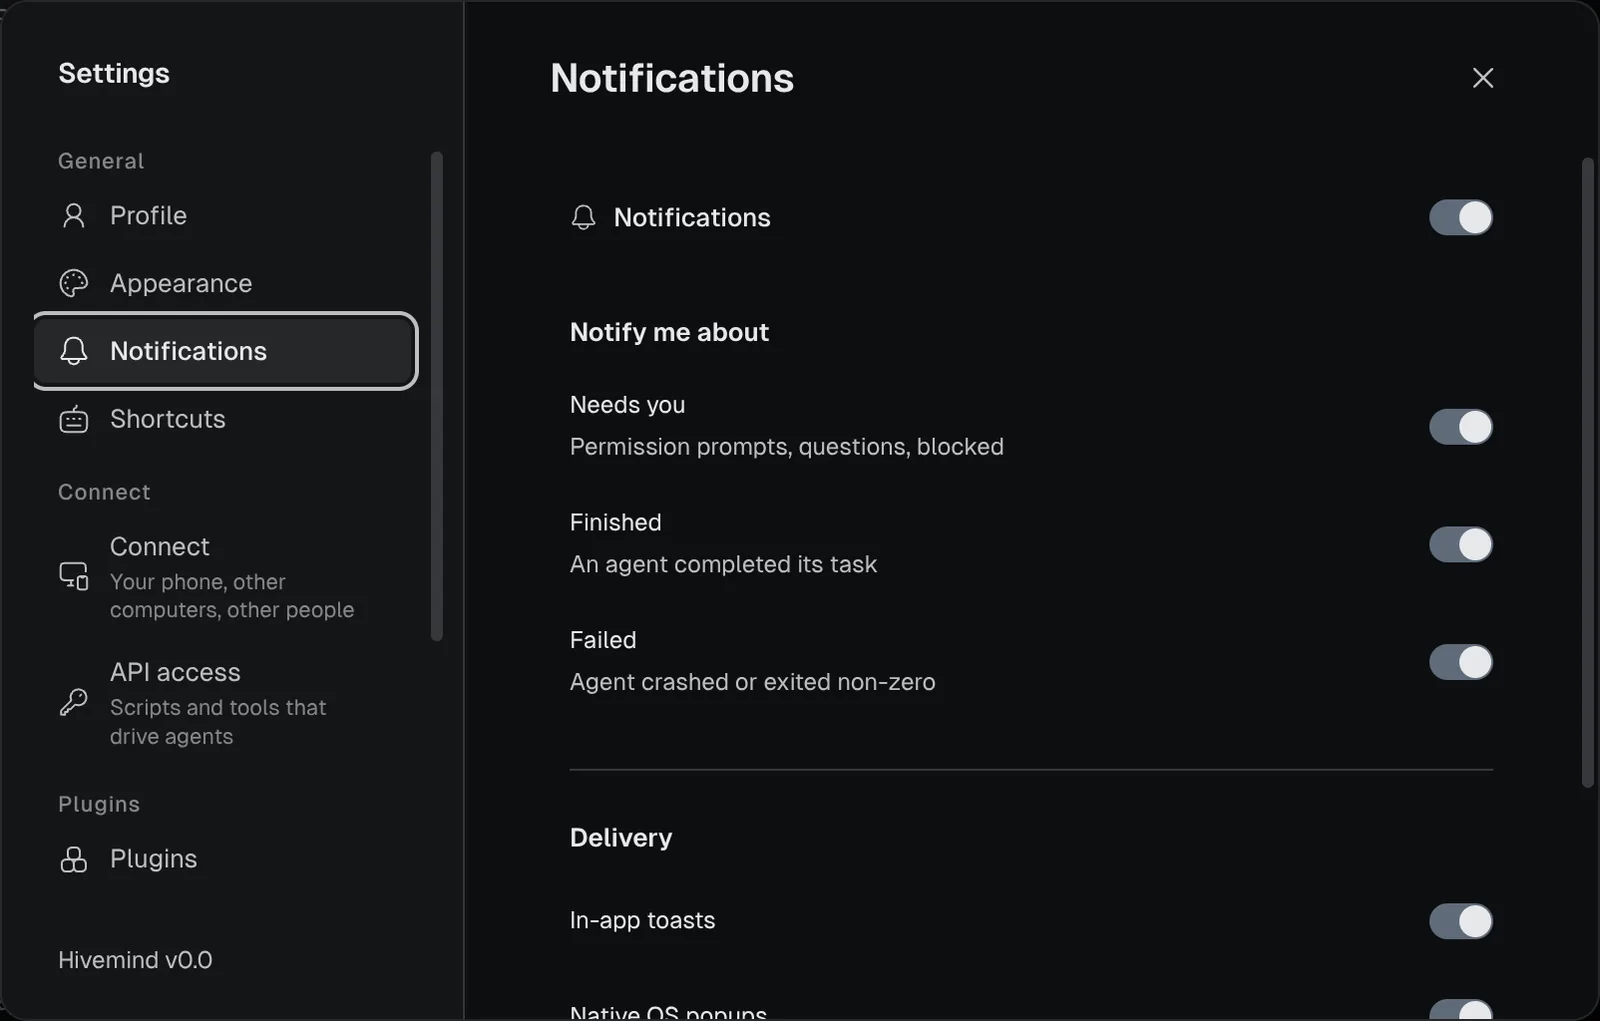
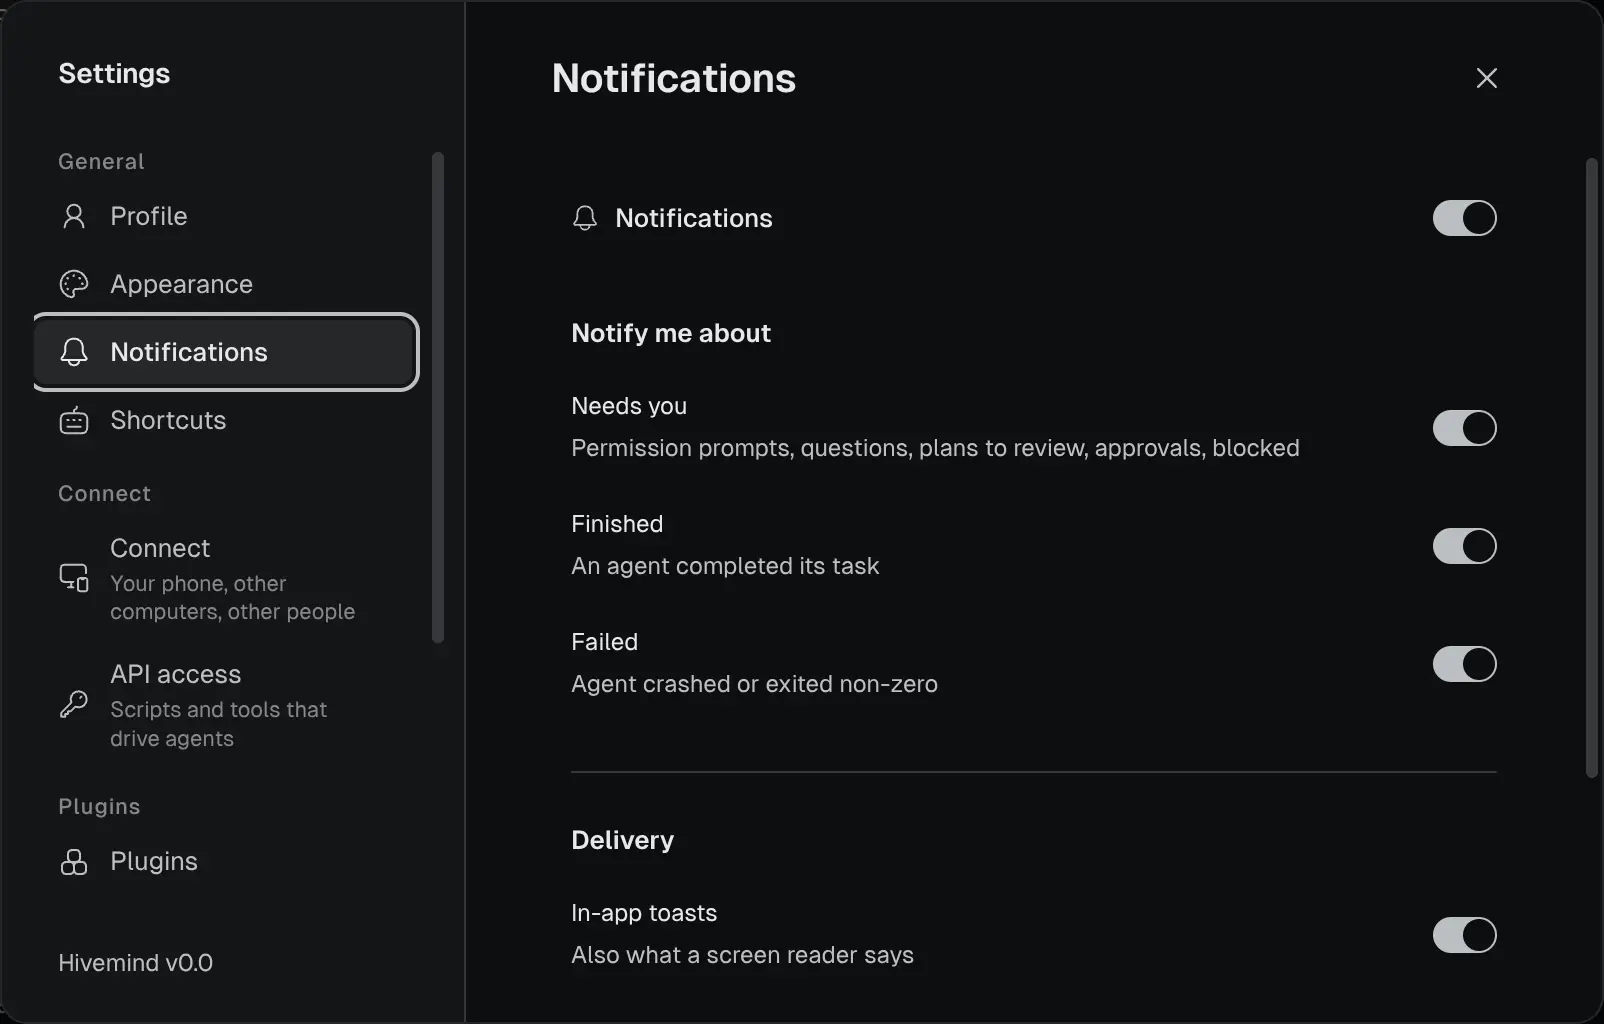
Status review 2: plans and approvals notify, failed spawns reach views, keys from the keymap
One definition of "needs you": noticeOf (and toastKindOf) ask statusLook(status) === "needs",
the reading the marks, Layers' bell and the frame corner use. A plan to review and a supervised
worker's approval now raise a toast, an OS notification and the screen reader's line, as their
amber mark already said; before, only blocked, permission and question did. Settings ->
Notifications names them under Needs you; the glossary's needs-you row and its tooltip on
know-who-is-waiting name the supervised worker's request (a plan was already there).

Failed spawns reach custom views: view-events decides a failed exit with exitFailed, so a
terminal that never ran (failed: true, no code) is closed to a view as tileClosed failed: true,
not as a clean close.

In-app toasts says "Also what a screen reader says" under it (the announcer gates on
shouldNotify(..., "inApp")); the note is the switch's aria-describedby, so a screen reader hears
it on the switch.

Keys from the keymap:
- The editor's and the diff's full-screen tooltips said "Esc to exit", which is false in the
  editor (Esc is CodeMirror's while you type). Both now read "Fullscreen (<fit-to-screen key>
  to leave)", from actionKey, as the full-screen view's leave button does.
- handleFontKey (editor, diff and plan tiles) matches through actionsFor(e, "terminal") instead
  of its own key list, so the keymap is the one owner of the font keys. Changes: on a Mac only
[…]

diff --git a/apps/desktop/src/renderer/src/useAgentAwareness.ts b/apps/desktop/src/renderer/src/useAgentAwareness.ts
@@ -7,11 +7,12 @@ import { isBackgroundTile } from "./worker-tiles";
 import { getNotificationSettings } from "./notification-settings";
 import { shouldNotify } from "../../shared/notification-settings.js";
 import type { FrameState } from "./canvas-persistence";
+import { statusLook } from "./workspace/status-look";
 
 type TileMeta = { label: string; status: TileStatusKind; seen: boolean };
 
 /** The verb-class of a toast / OS popup — drives accent color, icon and copy.
- *  Derived from a status transition: needs-you (blocked/permission/question),
+ *  Derived from a status transition: needs-you (any status that looks "needs"),
  *  finished (working→idle, or clean exit code 0), or error (working→exited,
  *  non-zero). Kept separate from TileStatusKind so a single "error" kind can
  *  overlay an `exited` status with red styling + the exit code in the body. */
@@ -56,8 +57,9 @@ export interface ToastAction {
 /**
  * What a status change tells the person, or null for nothing. `prev`: the tile's status before
  * this one (undefined: the first seen of it).
- *  - needs: it waits for a person (blocked, a permission, a question), from any state. A
- *    background worker that needs you still does.
+ *  - needs: it waits for a person (a permission, a question, a plan to review, an approval,
+ *    blocked), from any state: what wears the "needs" look. A background worker that needs you
+ *    still does.
  *  - done: a working agent finished its turn, or closed cleanly (exit code 0). Not a synthetic
  *    idle: a stuck "working" corrected, or the person interrupting it.
  *  - error: a working agent's process died, with a non-zero code or none known.
@@ -66,7 +68,7 @@ export interface ToastAction {
  * not told one by one.
  */
 export function noticeOf(prev: TileStatusKind | undefined, e: StatusEvent): NoticeKind | null {
-  if (e.status === "blocked" || e.status === "permission" || e.status === "question") return "needs";
+  if (statusLook(e.status) === "needs") return "needs";
   if (prev !== "working" || isBackgroundTile(e.tileId)) return null;
   if (e.status === "idle") return e.synthetic ? null : "done";
   if (e.status === "exited") return e.exitCode === 0 ? "done" : "error";
@@ -77,7 +79,7 @@ export function noticeOf(prev: TileStatusKind | undefined, e: StatusEvent): Noti
  *  didn't set `kind` explicitly (the worktree handlers pass only a status). */
 export function toastKindOf(t: { kind?: NoticeKind; status: TileStatusKind }): NoticeKind {
   if (t.kind) return t.kind;
-  if (t.status === "blocked" || t.status === "permission" || t.status === "question") return "needs";
+  if (statusLook(t.status) === "needs") return "needs";
   if (t.status === "exited") return "error";
   return "done";
 }

diff --git a/apps/desktop/tests/unit/settings-shortcuts.test.ts b/apps/desktop/tests/unit/settings-shortcuts.test.ts
@@ -8,7 +8,7 @@ import { readFileSync } from "node:fs";
 import { createElement } from "react";
 import { renderToStaticMarkup } from "react-dom/server";
 import SettingsPages from "../../src/renderer/src/settings-panels.tsx";
-import { FontStepper } from "../../src/renderer/src/tile-font.tsx";
+import { FontStepper, handleFontKey } from "../../src/renderer/src/tile-font.tsx";
 import { actionsFor, KEYMAP, labelsOf, type Action, type Where } from "../../src/shared/keymap.ts";
 import type { KeyPress } from "@hivemind/view-sdk/commands";
 
@@ -120,15 +120,21 @@ test("the guide's table lists every key of the keymap, for a Mac and for Windows
   }
 });
 
-test("the font buttons name the keys that size a terminal's text, on each platform", () => {
+test("each font button's tooltip names a key that handleFontKey sizes the text with, on each platform", () => {
+  // FontStepper sits on the editor, diff and plan tiles, whose keys go through handleFontKey.
   const font = { size: 13, inc() {}, dec() {}, reset() {}, set() {}, best() {} };
   for (const os of ["mac", "linux", "windows"] as const) {
     Object.defineProperty(globalThis, "navigator", { value: { platform: PLATFORM[os] }, configurable: true });
     const html = unescape(renderToStaticMarkup(createElement(FontStepper, font)));
-    for (const [action, word] of [["font-smaller", "Smaller"], ["font-reset", "Reset"], ["font-bigger", "Larger"]] as const) {
+    for (const [does, word] of [["dec", "Smaller"], ["reset", "Reset"], ["inc", "Larger"]] as const) {
       const key = new RegExp(`title="${word}[^"(]*\\(([^)]+)\\)"`).exec(html)?.[1];
       assert.ok(key, `the ${word} button names a key on ${os}`);
-      assert.ok(pressesOf(key, os).some((p) => actionsFor(p, "terminal", os === "mac").includes(action)), `"${key}" runs ${action} on ${os}`);
+      for (const press of pressesOf(key, os)) {
+        const ran: string[] = [];
+        let taken = false;
+        const handled = handleFontKey({ ...press, preventDefault: () => { taken = true; } }, { inc: () => ran.push("inc"), dec: () => ran.push("dec"), reset: () => ran.push("reset") });
+        assert.deepEqual([handled, taken, ran], [true, true, [does]], `"${key}" runs ${does} on ${os}`);
+      }
     }
   }
 });

diff --git a/apps/desktop/src/renderer/src/tile-font.tsx b/apps/desktop/src/renderer/src/tile-font.tsx
@@ -1,6 +1,6 @@
 /**
  * Per-node font sizing — each tile remembers its OWN font size (persisted by
- * tileId), adjustable via A−/A+ header buttons and Ctrl/Cmd +/−/0 when focused.
+ * tileId), adjustable via A−/A+ header buttons and the keymap's font keys when focused.
  *
  * Every tile kind applies the size differently (xterm option, a CSS var, a
  * CodeMirror theme, a CSS zoom), so this module only owns the shared STATE +
@@ -8,7 +8,9 @@
  */
 import { useCallback, useEffect, useState } from "react";
 import { Button } from "./components/ui/button";
-import { actionKey } from "./shortcut";
+import { actionKey, keyOS } from "./shortcut";
+import { actionsFor } from "../../shared/keymap";
+import type { KeyPress } from "@hivemind/view-sdk/commands";
 import { MIN_FONT as MIN, MAX_FONT as MAX, clampFont, optimalFontForScreen } from "./tile-font-calc";
 
 export { optimalFontForScreen } from "./tile-font-calc";
@@ -46,15 +48,20 @@ export function useTileFont(tileId: string, def: number): TileFont {
   return { size, inc, dec, reset, set, best };
 }
 
-/** Ctrl/Cmd +/−/0 → inc/dec/reset. Returns true if it handled the event. */
+/** The keys that size a terminal's text (the keymap's font-bigger, -smaller and -reset) size an
+ *  editor's, a diff's or a plan's: inc/dec/reset. Returns true if it handled the event. */
 export function handleFontKey(
-  e: { ctrlKey: boolean; metaKey: boolean; key: string; preventDefault: () => void },
+  e: KeyPress & { preventDefault: () => void },
   f: Pick<TileFont, "inc" | "dec" | "reset">,
 ): boolean {
   if (!(e.ctrlKey || e.metaKey)) return false;
-  if (e.key === "=" || e.key === "+") { e.preventDefault(); f.inc(); return true; }
-  if (e.key === "-" || e.key === "_") { e.preventDefault(); f.dec(); return true; }
-  if (e.key === "0") { e.preventDefault(); f.reset(); return true; }
+  for (const action of actionsFor(e, "terminal", keyOS() === "mac")) {
+    const run = action === "font-bigger" ? f.inc : action === "font-smaller" ? f.dec : action === "font-reset" ? f.reset : null;
+    if (!run) continue;
+    e.preventDefault();
+    run();
+    return true;
+  }
   return false;
 }
 

diff --git a/apps/desktop/src/renderer/src/App.tsx b/apps/desktop/src/renderer/src/App.tsx
@@ -425,7 +425,7 @@ function NotificationPrefs() {
   const dim = !s.enabled;
 
   const kinds: { key: "needs" | "done" | "error"; label: string; hint: string }[] = [
-    { key: "needs", label: sentence(LOOKS.needs.word), hint: "Permission prompts, questions, blocked" },
+    { key: "needs", label: sentence(LOOKS.needs.word), hint: "Permission prompts, questions, plans to review, approvals, blocked" },
     { key: "done", label: sentence(LOOKS.done.word), hint: "An agent completed its task" },
     { key: "error", label: sentence(LOOKS.failed.word), hint: "Agent crashed or exited non-zero" },
   ];
@@ -463,8 +463,12 @@ function NotificationPrefs() {
       <div className="settings-section">
         <div className="settings-subheading">Delivery</div>
         <div className="settings-row">
-          <div className="text-label text-[var(--color-fg)]">In-app toasts</div>
-          <Switch disabled={dim} checked={s.inApp} onCheckedChange={(v) => update({ inApp: v })} aria-label="In-app toasts" />
+          {/* The window's live region (workspace/announcer.ts) follows this switch as a toast does. */}
+          <div className="min-w-0">
+            <div className="text-label text-[var(--color-fg)]">In-app toasts</div>
+            <div id="notify-in-app-note" className="settings-note">Also what a screen reader says</div>
+          </div>
+          <Switch disabled={dim} checked={s.inApp} onCheckedChange={(v) => update({ inApp: v })} aria-label="In-app toasts" aria-describedby="notify-in-app-note" />
         </div>
         <div className="settings-row">
           <div className="text-label text-[var(--color-fg)]">Native OS popups</div>

diff --git a/apps/desktop/src/renderer/src/EditorTile.tsx b/apps/desktop/src/renderer/src/EditorTile.tsx
@@ -43,7 +43,7 @@ import { unifiedMergeView } from "@codemirror/merge";
 import { resolveActive } from "./editor-active";
 import { getTheme, useThemeField } from "./theme-store";
 import { htmlFileUrl, isHtmlPath } from "./browser-open";
-import { keyLabel } from "./shortcut";
+import { actionKey, keyLabel } from "./shortcut";
 // Lazy: marked + DOMPurify (and, on demand, mermaid) load only when the user
 // actually opens Preview — opening an editor tile pulls in zero markdown code.
 const MarkdownPreview = lazy(() =>
@@ -719,12 +719,13 @@ export function EditorTile({ repoPath, tabs, onCloseTab, onClose, activeReq, onO
         )}
         {/* Fullscreen — in the tab bar so it shows even when the editor is
             embedded in the Workbench (which strips the standalone header).
-            Sticky so it stays put when the tabs overflow-scroll. */}
+            Sticky so it stays put when the tabs overflow-scroll. Its tooltip names the
+            fit-to-screen key, which leaves from anywhere: Esc is the editor's while you type. */}
         <button
           onClick={() => setOverlay((v) => !v)}
           className="nodrag ml-auto sticky right-0 shrink-0 px-2 grid place-items-center bg-[var(--color-bg2)] border-l border-[var(--color-line)] text-[var(--color-fg3)] hover:text-[var(--color-fg)] hover:bg-[var(--color-bg3)] transition-colors text-label leading-none"
           aria-label="fullscreen editor"
-          title="Fullscreen · Esc to exit"
+          title={`Fullscreen (${actionKey("fit-to-screen")} to leave)`}
         >
           ⤢
         </button>

diff --git a/apps/desktop/tests/unit/announcer.test.ts b/apps/desktop/tests/unit/announcer.test.ts
@@ -30,6 +30,7 @@ function listen(t: TestContext): string[] {
 test("a tile that needs you, finished or failed is said once, with the others that changed", (t) => {
   const said = listen(t);
   ev("a1", "working"); ev("b1", "working"); ev("c1", "working"); ev("d1", "working"); ev("e1", "working"); ev("f1", "working"); ev("g1", "working");
+  ev("h1", "working"); ev("i1", "working");
   ev("a1", "permission");
   ev("a1", "permission", { label: "A1 renamed" }); // the same state again: no second line
   ev("b1", "idle");
@@ -38,9 +39,11 @@ test("a tile that needs you, finished or failed is said once, with the others th
   ev("e1", "idle", { synthetic: true }); // interrupted, not finished
   ev("f1", "question"); ev("f1", "working"); // answered before it was said
   ev("g1", "exited"); // no code: as a toast says, it failed
+  ev("h1", "plan_review"); // a plan to review needs you, as its amber mark says
+  ev("i1", "awaiting_approval");
   assert.deepEqual(said, [], "nothing is said before the states hold");
   mock.timers.tick(1000);
-  assert.deepEqual(said, ["A1 needs you. B1 finished. C1 failed. D1 finished. G1 failed"]);
+  assert.deepEqual(said, ["A1 needs you. B1 finished. C1 failed. D1 finished. G1 failed. H1 needs you. I1 needs you"]);
 
   ev("a1", "permission", { detail: "still waiting" });
   ev("b1", "idle", { detail: "turn ended" });

diff --git a/apps/desktop/tests/unit/view-events.test.ts b/apps/desktop/tests/unit/view-events.test.ts
@@ -82,6 +82,16 @@ test("lifecycle: opened after start is an event with its parent; closing reports
   assert.equal(h.hub.sinceOf("b"), undefined);
 });
 
+test("closing reports failed for a spawn that never ran, with no code, and not for a clean close", () => {
+  for (const [exit, failed] of [[{ failed: true }, true], [{ exitCode: 0 }, false], [{}, false]] as const) {
+    const h = harness();
+    h.hub.setWorkspace("ws", [h.tile("a")]);
+    h.hub.onStatus({ tileId: "a", label: "", status: "exited", ...exit });
+    h.hub.setWorkspace("ws", []);
+    assert.deepEqual(h.events.at(-1), { kind: "tileClosed", tileId: "a", lastStatus: "exited", ...(failed ? { failed: true } : {}), seq: 1, at: h.now() }, JSON.stringify(exit));
+  }
+});
+
 test("a workspace switch is not a mass close", () => {
   const h = harness();
   h.hub.setWorkspace("ws1", [h.tile("a")]);

diff --git a/apps/desktop/src/renderer/src/workspace/view-events.ts b/apps/desktop/src/renderer/src/workspace/view-events.ts
@@ -9,6 +9,7 @@
 import type { JsonValue, NeedsInputReason, TurnOutcome, ViewEvent, ViewStatus } from "@hivemind/view-sdk/protocol";
 import type { StatusEvent, TileStatusKind } from "../agent-status-bus";
 import { bucketTileStatus } from "@hivemind/view-host/status";
+import { exitFailed } from "./status-look";
 
 export interface HubTile {
   id: string;
@@ -89,7 +90,7 @@ export class ViewEventHub {
     const t = this.now();
     const prevRaw = this.raw.get(e.tileId);
     this.raw.set(e.tileId, e.status);
-    if (e.status === "exited" && e.exitCode) this.failed.add(e.tileId);
+    if (exitFailed(e)) this.failed.add(e.tileId);
     const reason = REASON[e.status];
     if (reason && prevRaw !== e.status) this.emit({ kind: "needsInput", tileId: e.tileId, reason }, t);
 

diff --git a/apps/desktop/src/renderer/src/DiffTile.tsx b/apps/desktop/src/renderer/src/DiffTile.tsx
@@ -31,6 +31,7 @@ import { Loading } from "./components/ui/loading";
 import { MenuItem } from "./components/ui/menu-item";
 import { useTileFont, FontStepper, handleFontKey } from "./tile-font";
 import { FullscreenShell } from "./tile-fullscreen";
+import { actionKey } from "./shortcut";
 import { DiffSurface } from "./code/DiffSurface";
 import {
   CodeView,
@@ -1014,7 +1015,7 @@ export function DiffTile({ repoPath, initialMode = "working", initialBase = "ori
             className="nodrag"
             onClick={() => setOverlay((v) => !v)}
             aria-label="fullscreen diff"
-            title="Fullscreen · Esc to exit"
+            title={`Fullscreen (${actionKey("fit-to-screen")} to leave)`}
           >
             <Maximize />
           </Button>

diff --git a/apps/desktop/src/renderer/src/workspace/announcer.ts b/apps/desktop/src/renderer/src/workspace/announcer.ts
@@ -6,7 +6,8 @@
  * a state that passes at once (a prompt answered, a turn that resumes) is never said.
  *
  * Per status event: a map read and write and the notice check, all O(1). The bus emits only on a
- * change. The timer runs only while something waits to be said.
+ * change. The timer runs only while something waits to be said. A flush, at most once per notice
+ * queued, walks every tile seen so far to drop the closed ones: O(live tiles), a map read each.
  */
 import { statusOf, type StatusEvent, type TileStatusKind } from "../agent-status-bus";
 import { noticeOf, type NoticeKind } from "../useAgentAwareness";

diff --git a/CHANGELOG.md b/CHANGELOG.md
@@ -25,7 +25,7 @@ Each release is published to [GitHub Releases](https://github.com/dip497/hivemin
 ### Changed
 
 - **Breaking:** a view's own keys (`keys` on a command) no longer act while you type in a terminal or a field: the key is the terminal program's there.
-- Settings → Shortcuts is made from the app's own keymap, every key in it, and shows each key as your computer writes it (⇧⌘A on a Mac, Ctrl+Shift+A elsewhere). The key hints in tooltips, menus and the Browser, editor and commit boxes do the same instead of showing ⌘ on every computer.
+- Settings → Shortcuts is made from the app's own keymap, every key in it, and shows each key as your computer writes it (⇧⌘A on a Mac, Ctrl+Shift+A elsewhere). The key hints in tooltips, menus and the Browser, editor and commit boxes do the same instead of showing ⌘ on every computer. An editor, a diff and a plan size their text with the terminal's font keys, the ones their buttons name.
 - Status words are one list: Layers says "approve?", "input?" and "review?" as a terminal's header does, and "needs you" for a frame.
 
 ### Fixed
@@ -33,9 +33,10 @@ Each release is published to [GitHub Releases](https://github.com/dip497/hivemin
 - A look that is no built-in preset (an imported theme file) shows as **Custom** in Settings → Appearance instead of as Ubuntu, and **Reset** puts the terminal back to Signal's colours. The Accent's description says what it colours.
 - An agent whose workers finish one after another is told "Your agents sent you messages" once, at its prompt, even before it has finished a turn since the app started; before, the line could be pasted into its prompt again for each worker.
 - Shift+Enter in a terminal adds a new line in an agent's prompt instead of sending it. A program that reads keys by the kitty keyboard protocol gets Shift+Enter, Ctrl+I and Tab as themselves, also after a window reattaches.
-- Esc in a full-screen terminal reaches the program instead of leaving full screen; ⌘/Ctrl+⇧+F leaves, and the full-screen buttons name that key instead of Esc. Settings → Shortcuts lists the terminal's own keys.
+- Esc in a full-screen terminal reaches the program instead of leaving full screen; ⌘/Ctrl+⇧+F leaves, and the full-screen buttons of a terminal, an editor and a diff name that key instead of Esc. Settings → Shortcuts lists the terminal's own keys.
 - An agent whose background subagents never reported their end no longer shows "working" forever: two minutes after the last subagent signal they stop counting, now on the daemon that runs the agent.
-- A frame's corner, Layers and a terminal's header agree about an exit: only a failed one is red, and a clean one raises no mark. A terminal that could not start, or whose session could not be opened, is failed too, and Layers shows a failed tile without the blue mark for a finished one. A frame's corner also shows a plan or an approval waiting on you.
+- A frame's corner, Layers and a terminal's header agree about an exit: only a failed one is red, and a clean one raises no mark. A terminal that could not start, or whose session could not be opened, is failed too, also to a custom view when it closes, and Layers shows a failed tile without the blue mark for a finished one. A frame's corner also shows a plan or an approval waiting on you.
+- An agent that waits for you to review its plan, or a supervised worker waiting for an approval, raises a toast, an OS notification and a screen reader's line, as its amber mark says it needs you; before, only a permission, a question or a blocked agent did. **Settings → Notifications** names them under **Needs you**, and says under **In-app toasts** that it also covers what a screen reader says.
 - A workflow's background workers no longer each raise a "finished" toast and notification when their turn ends, as was meant; one that needs you still does.
 - Increased contrast (the system setting) strengthens faint text and lines with glass off too, not only with glass on.
 - Settings → Shortcuts and the guide showed ⌘Tab for the next tile, which is Ctrl+Tab on a Mac too; Settings → Agents named ⌘\ for starting the default agent, which is ⇧⌘A / Ctrl+Shift+A. On Windows and Linux they no longer offer Super+B for Layers, which the system takes; the everyday keys come before Quit.
